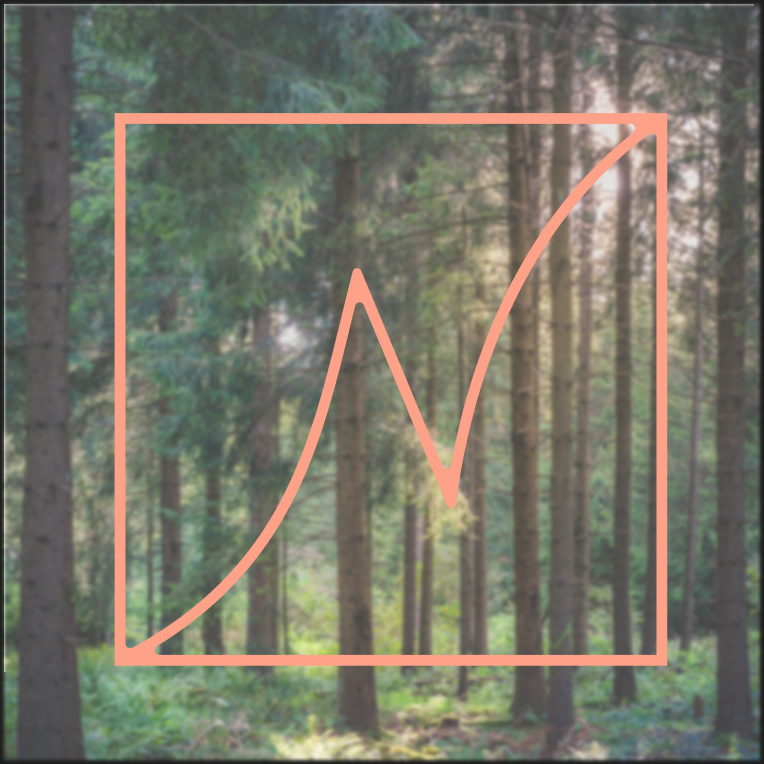
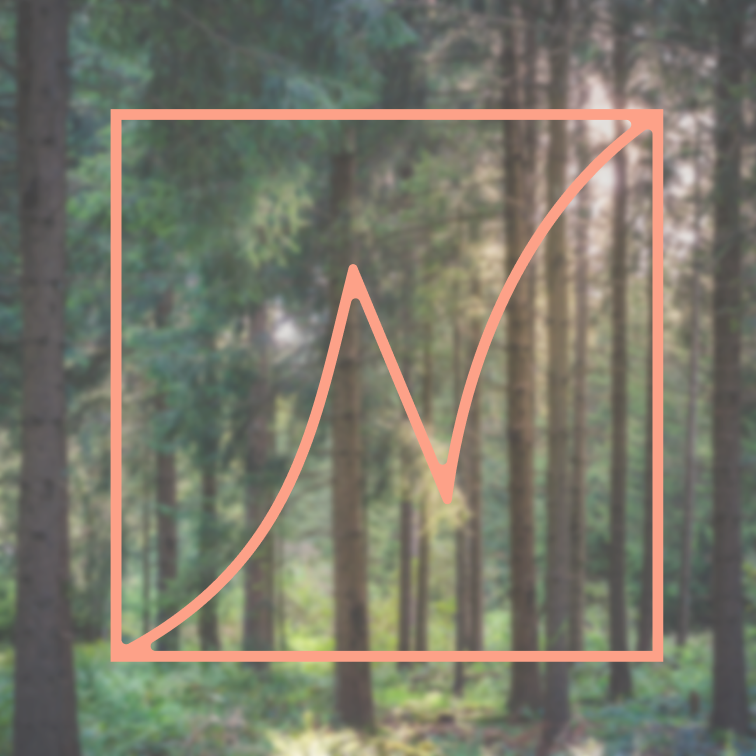
shop begun

diff --git a/index.html b/index.html
@@ -24,8 +24,8 @@
     <header>
       <nav class="nav-bar">
         <a href="#" class="nav-branding">
-          <img height="50px" src="images/LOGO_NO_TEXT.png" />
-        </a>
+          <img height="50px" src="images/fat_logo.svg"
+        /></a>
         <div class="right-nav">
           <button class="language-menu lang-btn">SE/EN</button>
           <ul class="nav-menu">
@@ -371,7 +371,9 @@
     </section>
     <div class="shop-wrapper">
       <div class="desktop-shop">
-        <h2 id="shop">Shop</h2>
+        <div class="flex-h2">
+          <h2 id="shop">Shop</h2>
+        </div>
         <p>
           This is the perfect totebag for your journey. Its light materal makes
           it easy to take with you, whether its a tour of the cities och a night
@@ -379,43 +381,29 @@
         </p>
         <h3>Click on the product to read more.</h3>
       </div>
-      <div class="carousell">
-        <section class="carousel" data-flickity='{ "wrapAround": true}'>
-          <div class="shop-item">
-            <h2>Backpack</h2>
-            <button>köp</button>
-            <img
-              src="images/Bark_-_95209_AdobeExpress 1.png"
-              alt="bild på produkt"
-            />
-          </div>
-          <div class="shop-item">
-            <h2>Totebag</h2>
-            <button>köp</button>
-            <img
-              src="images/Bark_-_95209_AdobeExpress 1.png"
-              alt="bild på produkt"
-            />
-          </div>
-          <div class="shop-item">
-            <h2>Clock</h2>
-            <button>köp</button>
-            <img
-              src="images/Bark_-_95209_AdobeExpress 1.png"
-              alt="bild på produkt"
-            />
-          </div>
-          <div class="shop-item">
-            <h2>Klädesplagg</h2>
-            <button>köp</button>
-            <img
-              src="images/Bark_-_95209_AdobeExpress 1.png"
-              alt="bild på produkt"
-            />
-          </div>
-        </section>
-        <h3 class="click-mobile">Click on the product to read more.</h3>
-      </div>
+      <section class="carousel" data-flickity='{ "wrapAround": true}'>
+        <div class="shop-item">
+          <h2>Totebag</h2>
+          <button>BUY NOW</button>
+          <img src="images/Klockaprodukt.jpg" alt="bild på produkt" />
+        </div>
+        <div class="shop-item">
+          <h2>Travel case</h2>
+          <button>BUY NOW</button>
+          <img src="images/Klockaprodukt.jpg" alt="bild på produkt" />
+        </div>
+        <div class="shop-item">
+          <h2>Clock</h2>
+          <button>BUY NOW</button>
+          <img src="images/Klockaprodukt.jpg" alt="bild på produkt" />
+        </div>
+        <div class="shop-item">
+          <h2>Sweatsuit</h2>
+          <button>BUY NOW</button>
+          <img src="images/Klockaprodukt.jpg" alt="bild på produkt" />
+        </div>
+      </section>
+      <h3 class="click-mobile">Click on the product to read more.</h3>
     </div>
     <img
       class="bark-pattern"

diff --git a/mediaquery.css b/mediaquery.css
@@ -28,6 +28,10 @@
     right: unset;
     font-size: 3rem;
   }
+  .carousel {
+    border-top: 2px solid var(--color-black);
+    border-bottom: 2px solid var(--color-black);
+  }
   .call-to-action-btn-mobile {
     display: none;
   }
@@ -38,12 +42,17 @@
     right: 0rem;
   }
   .shop-wrapper {
-    margin: 6rem 0;
     display: grid;
-    grid-template-columns: 0.8fr 2fr;
+    grid-template-columns: 1fr 2fr;
   }
   .desktop-shop {
-    margin: 0rem 8rem;
+    border: 2px solid var(--color-black);
+  }
+  .flex-h2 {
+    border-bottom: 2px solid var(--color-black);
+    display: grid;
+    padding-bottom: 15%;
+    padding-left: 10%;
   }
   .desktop-shop :is(p, h3) {
     display: flex;

diff --git a/style.css b/style.css
@@ -414,6 +414,7 @@ h3 {
 .checkers > div img {
   object-fit: cover;
   width: 100%;
+  height: 100%;
   display: block;
 }
 footer {
